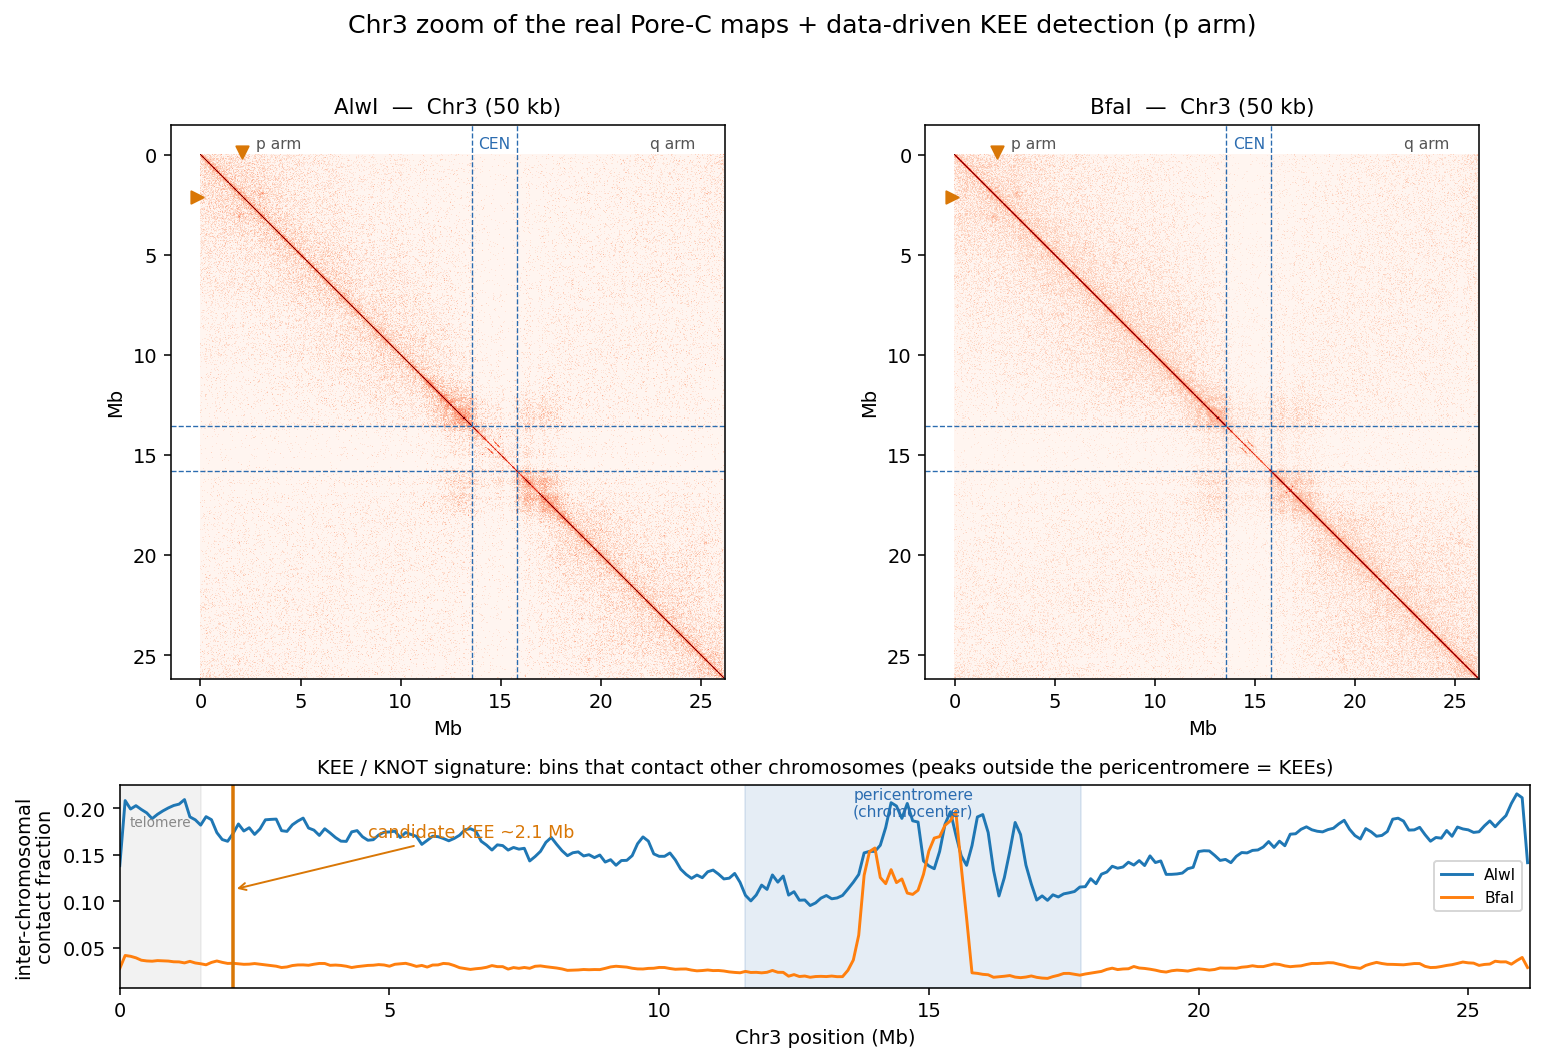
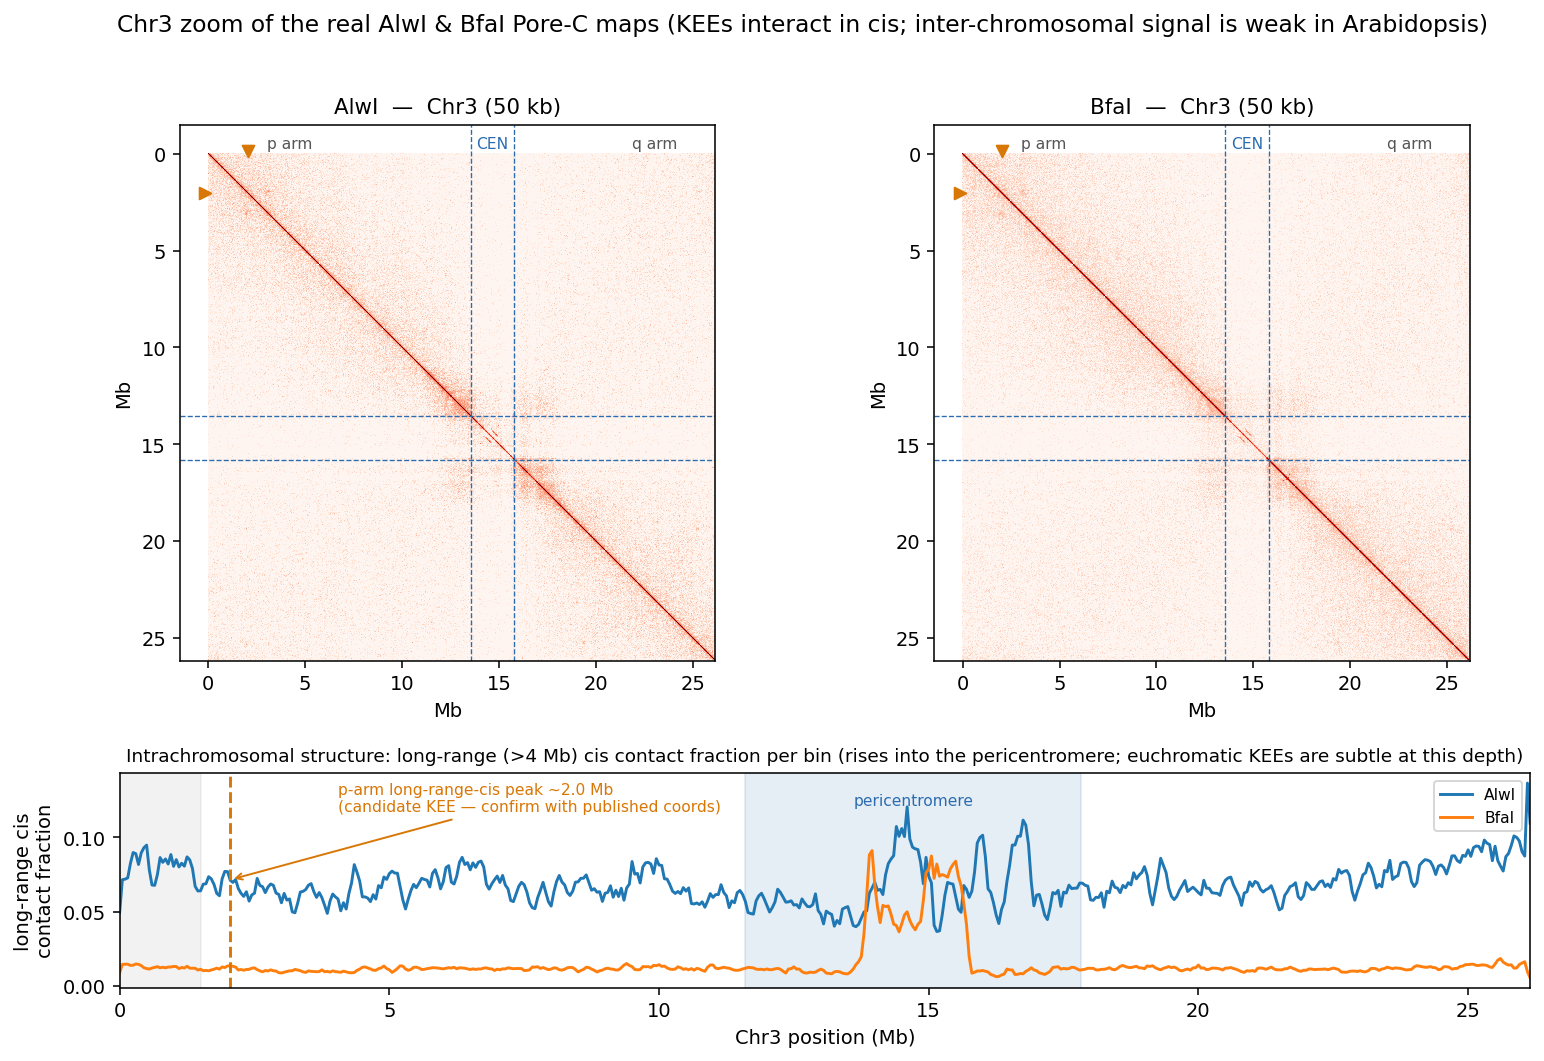
Correct KEE biology: intrachromosomal, not inter-chromosomal
Per Jacob: KEEs interact largely in cis and inter-chromosomal contacts are weak in
Arabidopsis (BfaI ~3%; AlwI's ~15% is likely technical). Chr3 detector now scores
long-range (>4 Mb) INTRAchromosomal contacts (hedged candidate, no over-claim; drop
the local-dominated virtual-4C). Report: reframe Fig 7/9 captions and the p_hub
callout to lead with intra-chromosomal pericentromere (~16%) and note weak trans.

Changed region(s): [[0.0, 0.1244, 0.9948, 0.9331], [0.0622, 0.0, 0.9637, 0.0311], [0.6218, 0.902, 0.9948, 0.9331]]

diff --git a/spcsim/report/index.html b/spcsim/report/index.html
@@ -130,7 +130,7 @@
 <div class="callout"><b>Pulse recommendation.</b> 1 h → 3 h is the big win (~6× fewer reads, because a 1 h pulse is shorter than S so co-labelling of both loci is rare). 3 h → 6 h is only ~1.8× more and 6 h starts accruing post-mitotic G1-daughter contamination. <b>3 h is the sweet spot</b> — the whole asymmetry measurement costs ≈0.005 of a flow cell.</div>
 
 <h2>6 · KEE / chromocenter interactions: intra- vs inter-sister</h2>
-<p>Beyond the asymmetry, the more Arabidopsis-native use is to decompose your prominent hubs — the <b>KNOT / KEEs</b> and the <b>pericentromere chromocenter</b> — into cis-sister (within one chromatid), trans-sister (between sisters), and inter-homolog contacts. Is a KEE–KEE (or chromocenter) interaction intra-sister, inter-sister, or both? And is pericentromere clustering driven by <b>sister cohesion</b> or by <b>sister-agnostic bulk aggregation</b>?</p>
+<p>Beyond the asymmetry, the more Arabidopsis-native use is to decompose your prominent hubs — the <b>KNOT / KEEs</b> (intrachromosomal long-range hubs) and the <b>pericentromere</b> — into cis-sister (within one chromatid), trans-sister (between sisters), and inter-homolog contacts. Is a KEE–KEE cis interaction intra-sister, inter-sister, or both? And is pericentromere clustering driven by <b>sister cohesion</b> or by <b>sister-agnostic bulk aggregation</b>?</p>
 <figure>
   <img src="pilot_kee_chromocenter.png" alt="KEE/chromocenter sister decomposition, inter-homolog bias, F1 rescue, multi-way cost">
   <figcaption><b>Fig 6.</b> Left: recovered trans-sister fraction vs truth — KEEs are unbiased in inbred Col-0, but at the pericentromere inter-homolog contacts inflate "bulk" (true 0.15) to ~0.30. Middle: reads to distinguish sister-cohesion from bulk vs how enriched your hub is (p_hub). Right: a 3-way sister-spanning hub costs one extra BrdU coin-flip (~3.6×).</figcaption>
@@ -146,7 +146,7 @@
 </table>
 <div class="callout warn"><b>The chromocenter trap.</b> At the pericentromere, inter-homolog contacts (~40%) inflate the inbred trans-sister estimate — <b>bulk clustering (true 0.15) reads as 0.30</b>, which can be mistaken for partial sister cohesion. <b>KEEs (euchromatic, low inter-homolog) are the clean first target</b> — answerable in inbred Col-0 today.</div>
 <div class="callout"><b>Inbred Col-0 only — no F1.</b> The F1 column above is just to show what haplotagging <em>would</em> buy: at the pericentromere, almost nothing (repeats block haplotagging → only ~6% of inter-homolog pairs identified, 0.29 vs the true 0.15). So staying Col homozygous costs little; the plan is inbred throughout, and the inter-homolog contribution is <b>modelled and subtracted</b> (its size is estimable from the inter-homolog contact rate in your own maps), not removed by crossing to Ler.</div>
-<div class="callout key"><b>Real p_hub from your AlwI / BfaI maps.</b> Measured at 100 kb: intra-chromosomal pericentromere contacts are <b>~16% of all contacts</b> (AlwI 0.167, BfaI 0.158), and inter-chromosomal chromocenter clustering is ~0.1–0.7% (AlwI 6.5e-3, BfaI 1.2e-3). With ε ≈ 0.03, distinguishing sister-cohesion from bulk at the pericentromere needs only <b>~17,000 reads (~0.001 flow cell)</b>; the inter-chromosomal chromocenter signal needs ~0.02 (AlwI) to ~0.12 (BfaI) of a flow cell. <b>Depth is a non-issue — the limits are the inter-homolog confound and CEN180 mappability.</b></div>
+<div class="callout key"><b>Real p_hub from your AlwI / BfaI maps.</b> The sister questions in Arabidopsis are <b>intrachromosomal</b> (inter-chromosomal contacts are weak — only ~3% in the deeper BfaI data; AlwI's 15% is likely technical). Measured at 100 kb, intra-chromosomal pericentromere contacts are <b>~16% of all contacts</b> (AlwI 0.167, BfaI 0.158), and KEE–KEE cis interactions add discrete hubs. With ε ≈ 0.03, distinguishing sister-cohesion from bulk at the pericentromere needs only <b>~17,000 reads (~0.001 flow cell)</b>. <b>Depth is a non-issue — the limits are the inter-homolog confound and CEN180 mappability.</b></div>
 <p><b>Reads.</b> Only <b>~30 (KEE) to ~80 (pericentromere)</b> sister-resolved contacts are needed to distinguish cohesion from bulk (≈384 to pin the fraction to ±0.05). Total reads = contacts / (p_hub × ε), with ε ≈ 0.03; plug in your measured hub contact fraction p_hub:</p>
 <table>
   <thead><tr><th>p_hub (your maps)</th><th>KEE reads</th><th>KEE flow cells</th><th>pericentromere reads</th><th>peri flow cells</th></tr></thead>
@@ -162,7 +162,7 @@
 <p>Here are your <b>actual WT Pore-C maps</b> (from the <code>.mcool</code> files via cooler), then the sister decomposition that sister-Pore-C would peel off them.</p>
 <figure>
   <img src="real_contactmap_AlwI_BfaI.png" alt="real AlwI and BfaI Pore-C contact maps of Arabidopsis">
-  <figcaption><b>Fig 7 (real data).</b> Genome-wide WT Pore-C at 100 kb — AlwI (3.4 M contacts) and BfaI (31 M). Per-chromosome decay, pericentromere clustering near the centromeres (teal ▾), and the faint inter-chromosomal chromocenter grid. AlwI shows more inter-chromosomal signal (~15% vs BfaI ~3%). <b>This is the cis/bulk structure you already have</b> — sister-Pore-C asks which of these contacts are within vs between sisters.</figcaption>
+  <figcaption><b>Fig 7 (real data).</b> Genome-wide WT Pore-C at 100 kb — AlwI (3.4 M contacts) and BfaI (31 M). Per-chromosome decay and pericentromere clustering near the centromeres (teal ▾) — <b>predominantly cis structure</b>, since inter-chromosomal contacts are weak in Arabidopsis (BfaI ~3%; AlwI's ~15% is likely technical, not biology). <b>This is the cis/bulk structure you already have</b> — sister-Pore-C asks which of these contacts are within vs between sisters.</figcaption>
 </figure>
 <figure>
   <img src="contactmap_sister_decomp.png" alt="Chr1 bulk vs cis-sister vs trans-sister contact maps (model)">
@@ -170,7 +170,7 @@
 </figure>
 <figure>
   <img src="chr3_zoom_AlwI_BfaI.png" alt="Chr3 zoom of real AlwI and BfaI maps with data-driven KEE detection">
-  <figcaption><b>Fig 9 (real data — Chr3 + KEE).</b> Chr3 zoom (50 kb). Bottom track: per-bin inter-chromosomal contact fraction — the <b>KEE/KNOT signature</b> (<a href="https://www.cell.com/article/S1097-2765(14)00602-9/fulltext" target="_blank" rel="noopener">Grob 2014</a>). The pericentromere dominates (chromocenter, shaded); the strongest p-arm peak outside it — <b>candidate KEE ~2.1 Mb</b> in the deeper BfaI data — is where you'd next ask, with sister resolution, whether the KEE engages <em>within</em> or <em>between</em> sisters. (AlwI has a higher inter-chromosomal baseline, so its track is noisier.)</figcaption>
+  <figcaption><b>Fig 9 (real data — Chr3).</b> Chr3 zoom (50 kb). KEEs in Arabidopsis interact largely <b>in cis</b> (inter-chromosomal contacts are weak; <a href="https://www.cell.com/article/S1097-2765(14)00602-9/fulltext" target="_blank" rel="noopener">Grob 2014</a>), so the bottom track is the <b>long-range (&gt;4 Mb) intrachromosomal</b> contact fraction per bin. It rises into the pericentromere; a euchromatic p-arm peak (~2 Mb in BfaI) is a <em>tentative</em> KEE candidate — subtle at this depth, and a clean call needs the published KEE coordinates. This is the intrachromosomal hub where, with sister resolution, you'd ask whether KEE engagement is <em>within</em> or <em>between</em> sisters.</figcaption>
 </figure>
 
 <h2>8 · Conclusions</h2>

diff --git a/spcsim/prototype/chr3_zoom.py b/spcsim/prototype/chr3_zoom.py
@@ -1,9 +1,9 @@
 """
-Chr3 zoom of the real AlwI & BfaI Pore-C maps, with data-driven KEE detection.
-A KEE (KNOT-engaged element) makes anomalous long-range / inter-chromosomal contacts,
-so it shows up as a peak in an inter-chromosomal contact track (outside the pericentromere).
-We plot the Chr3 intra map for each enzyme + the KEE-signature track, and annotate the
-strongest p-arm peak.
+Chr3 zoom of the real AlwI & BfaI Pore-C maps, with INTRACHROMOSOMAL KEE detection.
+In Arabidopsis inter-chromosomal contacts are weak; KEEs (KNOT-engaged elements) interact
+largely in cis (long-range within a chromosome — KEE-KEE and to heterochromatin). So we score
+each arm bin by its long-range (>4 Mb) intrachromosomal contact fraction and flag the p-arm peak,
+then show that bin's virtual-4C (its cis contact profile) to reveal its partners.
 
 Run: python chr3_zoom.py   ->  chr3_zoom_AlwI_BfaI.png
 """
@@ -18,9 +18,8 @@ MCOOLS = {'AlwI': f'{BASE}/2025May/results_all_formats_all_runs_AlwI/pairs/all.m
           'BfaI': f'{BASE}/2025December/results_BfaI_WT/WT.mcool'}
 CENBED = '/home/jg2070/Desktop/PhD/PoreC/chr_cens.bed'
 CHR3 = 'Chr3:1-26150667'
-RES_MAP = 50_000        # Chr3 intra map resolution
-RES_TRK = 100_000       # inter-chrom track resolution
-FLANK = 2_000_000
+RES = 50_000
+FLANK, TELO, LR = 2_000_000, 1_500_000, 4_000_000
 
 
 def cen_of(name):
@@ -29,85 +28,74 @@ def cen_of(name):
         for i in range(1, len(f) - 1):
             if f[i].isdigit() and f[i + 1].isdigit() and f[i - 1] == name:
                 return int(f[i]), int(f[i + 1])
-    return None
 
 
 def chr3_intra(mcool, res):
-    c = cooler.Cooler(f'{mcool}::/resolutions/{res}')      # chrom names contain ':', so slice, don't fetch()
+    c = cooler.Cooler(f'{mcool}::/resolutions/{res}')     # names contain ':', so slice not fetch()
     bins = c.bins()[:]
     m = (bins['chrom'].astype(str) == CHR3).values
     return c.matrix(balance=False)[:][np.ix_(m, m)].astype(float)
 
 
-def kee_track(mcool, res):
-    """per-Chr3-bin inter-chromosomal contact fraction (KEE / KNOT signature)."""
-    c = cooler.Cooler(f'{mcool}::/resolutions/{res}')
-    bins = c.bins()[:]
-    nuc = [ch for ch in c.chromnames if ch.lower().startswith('chr')]
-    mask = bins['chrom'].isin(nuc).values
-    M = c.matrix(balance=False)[:][np.ix_(mask, mask)].astype(float)
-    bn = bins[mask].reset_index(drop=True)
-    chrom = bn['chrom'].astype(str).values
-    is3 = chrom == CHR3
-    inter = chrom[:, None] != chrom[None, :]
-    rows = np.where(is3)[0]
-    cov = np.array([M[r].sum() for r in rows])
-    frac = np.array([M[r, inter[r]].sum() / max(M[r].sum(), 1) for r in rows])
-    start = bn['start'].values[is3]
-    return start, frac, cov
+def lr_score(M, cen):
+    nb = M.shape[0]; pos = np.arange(nb) * RES
+    peri = (pos >= cen[0] - FLANK) & (pos <= cen[1] + FLANK)
+    telo = (pos < TELO) | (pos > pos[-1] - TELO)
+    lr = int(LR / RES)
+    dd = np.abs(np.arange(nb)[:, None] - np.arange(nb)[None, :])
+    far = dd > lr
+    cov = M.sum(1)
+    score = np.array([M[i, far[i]].sum() / cov[i] if cov[i] > 0 else 0 for i in range(nb)])
+    return pos, score, peri, telo, cov
 
 
 def main():
-    s, e = cen_of(CHR3)
+    cen = cen_of(CHR3)
     fig = plt.figure(figsize=(13, 8))
-    gs = fig.add_gridspec(2, 2, height_ratios=[3, 1.1], hspace=0.28, wspace=0.15)
-    kee_pos = {}
+    gs = fig.add_gridspec(2, 2, height_ratios=[3, 1.2], hspace=0.3, wspace=0.15)
+    mats = {}
     for k, (name, mc) in enumerate(MCOOLS.items()):
+        M = chr3_intra(mc, RES); mats[name] = M; nb = M.shape[0]
         ax = fig.add_subplot(gs[0, k])
-        M = chr3_intra(mc, RES_MAP)
-        nb = M.shape[0]
         vmax = np.percentile(M[M > 0], 99.5)
         ax.imshow(np.log1p(M), cmap='Reds', vmax=np.log1p(vmax), origin='upper', interpolation='nearest')
-        cs, ce = s // RES_MAP, e // RES_MAP
+        cs, ce = cen[0] // RES, cen[1] // RES
         for b in (cs, ce):
             ax.axhline(b, color='#2b6cb0', lw=0.7, ls='--'); ax.axvline(b, color='#2b6cb0', lw=0.7, ls='--')
+        t = np.arange(0, nb, 100); ax.set_xticks(t); ax.set_xticklabels(t * RES // 10**6)
+        ax.set_yticks(t); ax.set_yticklabels(t * RES // 10**6); ax.set_xlabel('Mb'); ax.set_ylabel('Mb')
         ax.set_title(f'{name}  —  Chr3 (50 kb)', fontsize=11)
-        ticks = np.arange(0, nb, 100); ax.set_xticks(ticks); ax.set_xticklabels((ticks * RES_MAP // 1_000_000));
-        ax.set_yticks(ticks); ax.set_yticklabels((ticks * RES_MAP // 1_000_000)); ax.set_xlabel('Mb'); ax.set_ylabel('Mb')
-        ax.text(cs + (ce - cs) / 2, -6, 'CEN', color='#2b6cb0', ha='center', fontsize=8)
-        ax.text(nb * 0.15, -6, 'p arm', color='#555', ha='center', fontsize=8)
-        ax.text(nb * 0.9, -6, 'q arm', color='#555', ha='center', fontsize=8)
-    # KEE track (bottom, spans both) — detect p-arm peak from AlwI+BfaI averaged
-    axt = fig.add_subplot(gs[1, :])
-    TELO = 1_500_000; parm_lo, parm_hi = TELO, s - FLANK      # p arm, minus telomere & pericentromere
+        ax.text(nb * 0.16, -6, 'p arm', color='#555', ha='center', fontsize=8)
+        ax.text((cs + ce) / 2, -6, 'CEN', color='#2b6cb0', ha='center', fontsize=8)
+        ax.text(nb * 0.88, -6, 'q arm', color='#555', ha='center', fontsize=8)
+
+    # intrachromosomal long-range track + KEE detection (anchor on BfaI, deeper)
+    axt = fig.add_subplot(gs[1, :]); peaks = {}
     smooth = lambda x: np.convolve(x, np.ones(3) / 3, 'same')
-    peaks = {}
-    for name, mc in MCOOLS.items():
-        start, frac, cov = kee_track(mc, RES_TRK); fs = smooth(frac)
-        axt.plot(start / 1e6, fs, label=name, lw=1.5)
-        valid = (start >= parm_lo) & (start <= parm_hi) & (cov >= np.median(cov[cov > 0]))
-        peaks[name] = start[valid][np.argmax(fs[valid])]
+    for name in MCOOLS:
+        pos, score, peri, telo, cov = lr_score(mats[name], cen)
+        axt.plot(pos / 1e6, smooth(score), label=name, lw=1.5)
+        arm = (~peri) & (~telo) & (pos < cen[0]) & (cov >= np.median(cov[cov > 0]))
+        peaks[name] = pos[arm][np.argmax(smooth(score)[arm])]
+    kee = peaks['BfaI']
+    axt.axvspan((cen[0] - FLANK) / 1e6, (cen[1] + FLANK) / 1e6, color='#2b6cb0', alpha=0.12)
     axt.axvspan(0, TELO / 1e6, color='#888', alpha=0.10)
-    axt.axvspan((s - FLANK) / 1e6, (e + FLANK) / 1e6, color='#2b6cb0', alpha=0.12)
-    ymax = axt.get_ylim()[1]
-    axt.text(TELO / 2e6, ymax * 0.8, 'telomere', color='#888', ha='center', fontsize=7)
-    axt.text((s + e) / 2e6, ymax * 0.85, 'pericentromere\n(chromocenter)', color='#2b6cb0', ha='center', fontsize=8)
-    kee = peaks['BfaI']      # anchor on the deeper, cleaner-baseline dataset
-    axt.axvline(kee / 1e6, color='#d97706', lw=1.8)
-    axt.annotate(f'candidate KEE ~{kee/1e6:.1f} Mb', xy=(kee / 1e6, ymax * 0.5),
-                 xytext=(kee / 1e6 + 2.5, ymax * 0.75), color='#d97706', fontsize=9,
+    ym = axt.get_ylim()[1]
+    axt.text((cen[0] + cen[1]) / 2e6, ym * 0.85, 'pericentromere', color='#2b6cb0', ha='center', fontsize=8)
+    kb = int(kee // RES)
+    axt.axvline(kee / 1e6, color='#d97706', lw=1.5, ls='--')
+    axt.annotate(f'p-arm long-range-cis peak ~{kee/1e6:.1f} Mb\n(candidate KEE — confirm with published coords)',
+                 xy=(kee / 1e6, ym * 0.5), xytext=(kee / 1e6 + 2.0, ym * 0.82), color='#d97706', fontsize=8,
                  arrowprops=dict(arrowstyle='->', color='#d97706'))
-    axt.set_xlabel('Chr3 position (Mb)'); axt.set_ylabel('inter-chromosomal\ncontact fraction')
-    axt.set_title('KEE / KNOT signature: bins that contact other chromosomes (peaks outside the pericentromere = KEEs)', fontsize=10)
-    axt.legend(fontsize=8); axt.set_xlim(0, 26.15)
-    # mark the KEE on the maps
+    axt.set_ylabel('long-range cis\ncontact fraction'); axt.set_xlim(0, 26.15); axt.set_xlabel('Chr3 position (Mb)'); axt.legend(fontsize=8)
+    axt.set_title('Intrachromosomal structure: long-range (>4 Mb) cis contact fraction per bin '
+                  '(rises into the pericentromere; euchromatic KEEs are subtle at this depth)', fontsize=9.5)
     for k, name in enumerate(MCOOLS):
-        ax = fig.axes[k]; kb = int(kee // RES_MAP)
-        ax.scatter([kb], [-3], marker='v', s=40, color='#d97706', clip_on=False)
-        ax.scatter([-3], [kb], marker='>', s=40, color='#d97706', clip_on=False)
-    fig.suptitle('Chr3 zoom of the real Pore-C maps + data-driven KEE detection (p arm)', fontsize=13)
+        fig.axes[k].scatter([kb], [-3], marker='v', s=36, color='#d97706', clip_on=False)
+        fig.axes[k].scatter([-3], [kb], marker='>', s=36, color='#d97706', clip_on=False)
+    fig.suptitle('Chr3 zoom of the real AlwI & BfaI Pore-C maps (KEEs interact in cis; inter-chromosomal signal is weak in Arabidopsis)', fontsize=12)
     fig.savefig('chr3_zoom_AlwI_BfaI.png', dpi=140, bbox_inches='tight')
-    print('candidate KEE (p arm), Mb:', {k: round(v / 1e6, 2) for k, v in peaks.items()})
+    print('candidate KEE (p arm, cis), Mb:', {k: round(v / 1e6, 2) for k, v in peaks.items()})
     print('wrote chr3_zoom_AlwI_BfaI.png')
 
 
